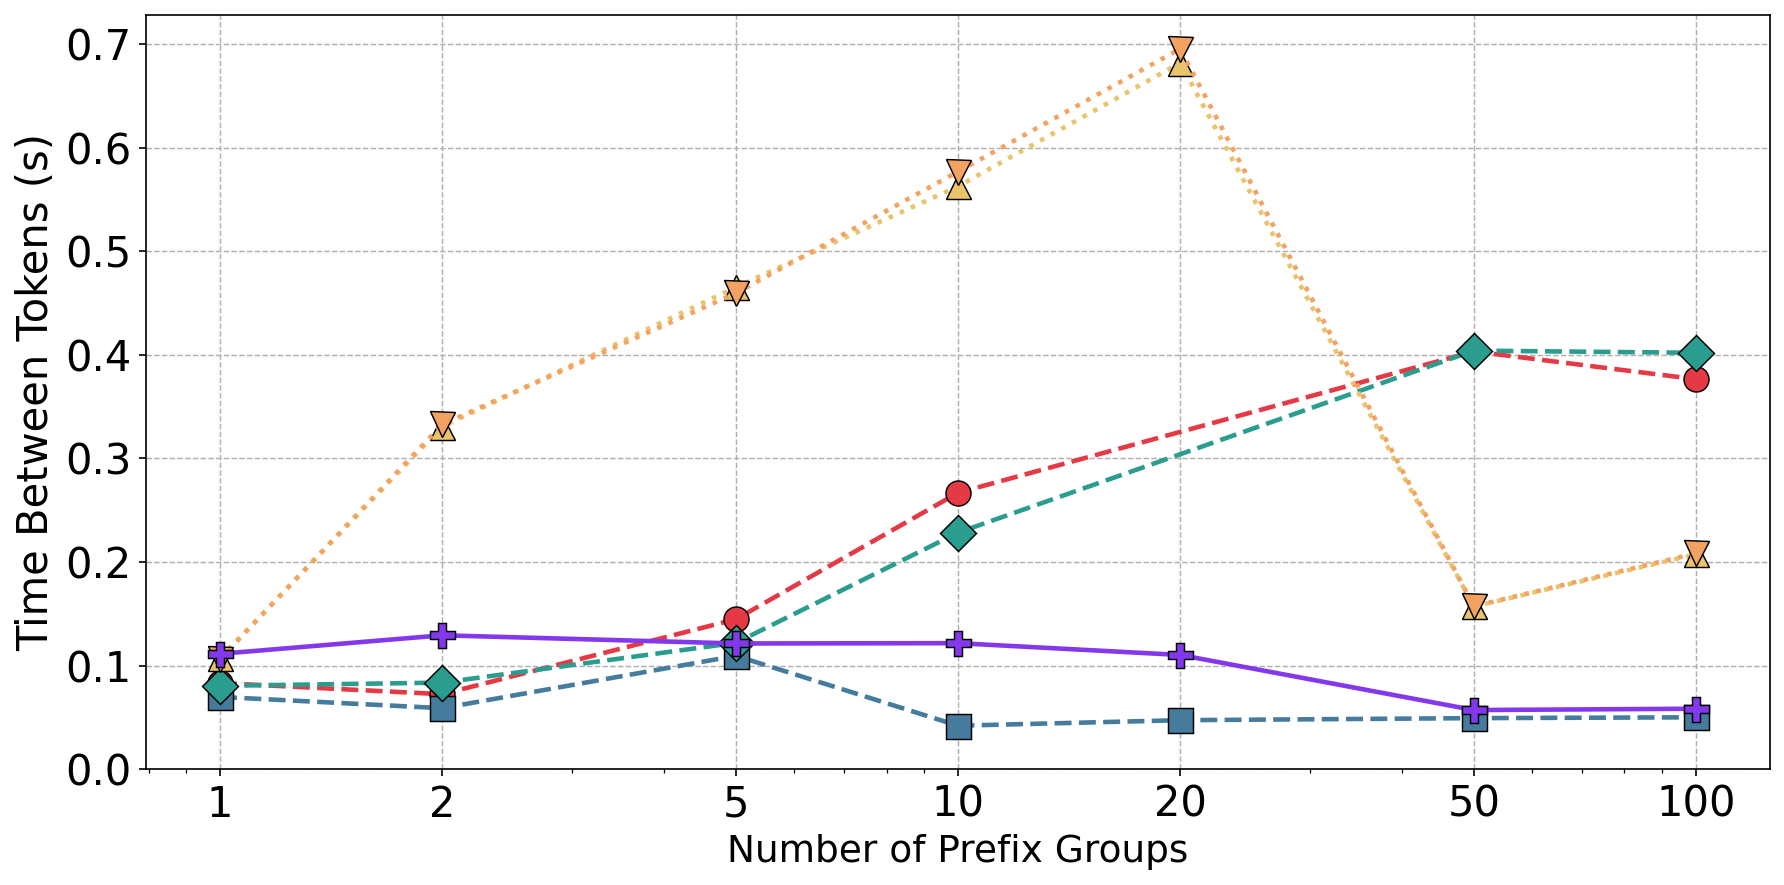
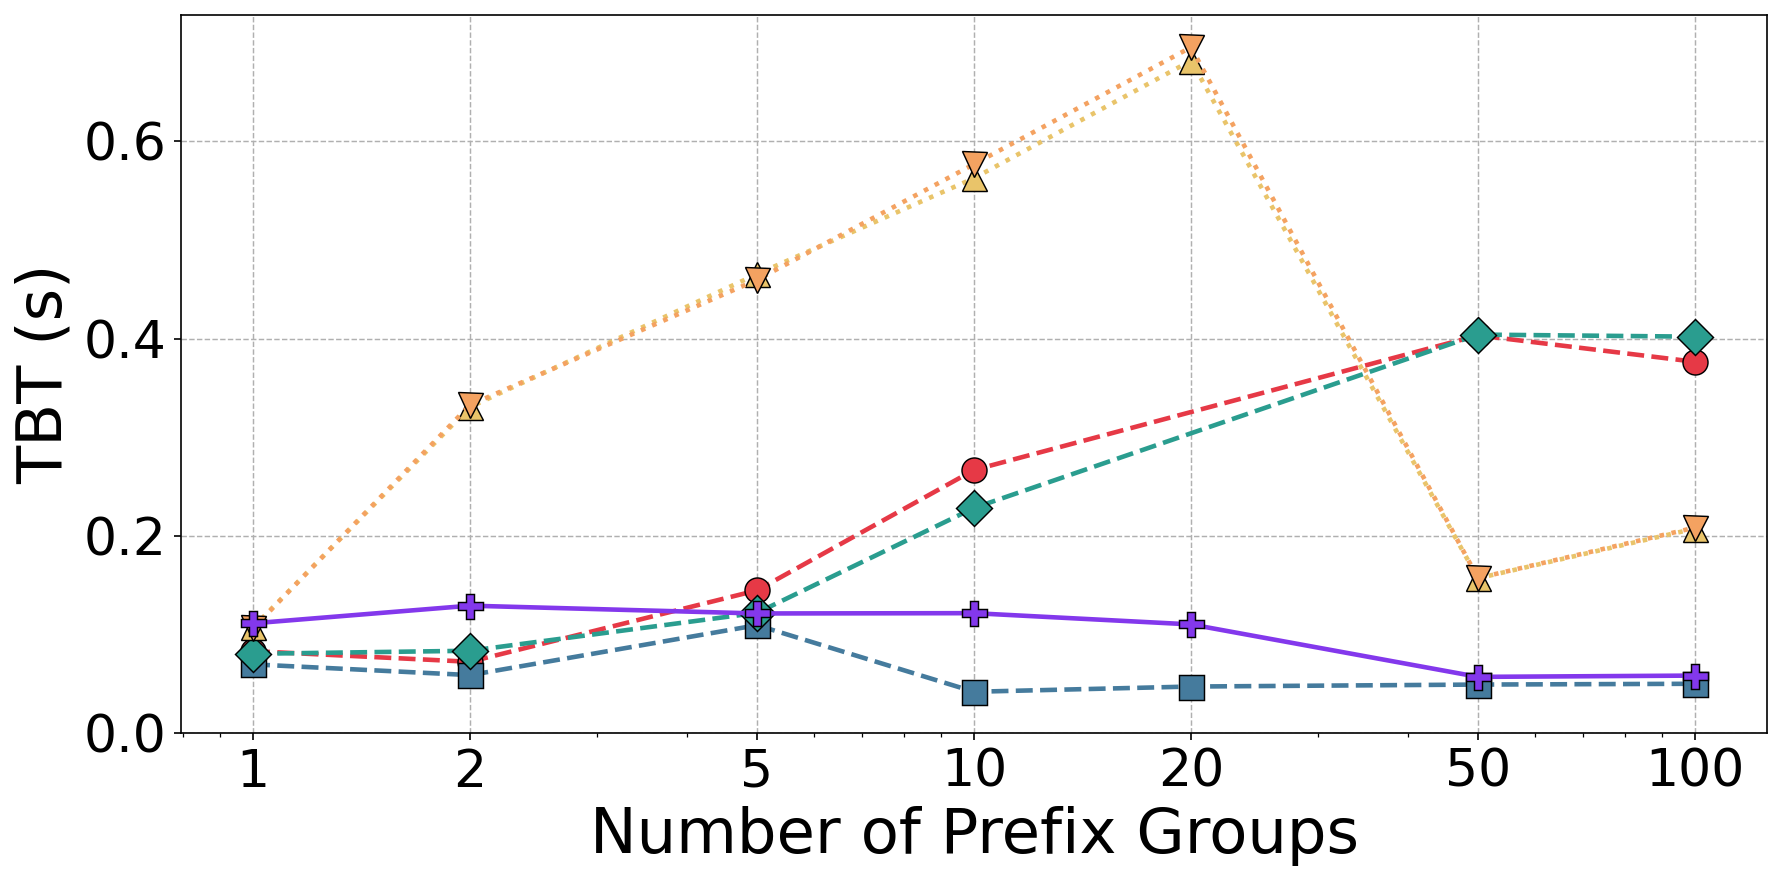
fam

diff --git a/code/vllm/families_logs/plot.py b/code/vllm/families_logs/plot.py
@@ -193,13 +193,13 @@ def make_plot(metric_key, ylabel, title, outpath):
     ax.set_xticks(all_fams)
     ax.get_xaxis().set_major_formatter(ticker.ScalarFormatter())
 
-    ax.set_xlabel("Number of Prefix Groups", fontsize=18)
-    ax.set_ylabel(ylabel, fontsize=20)
+    ax.set_xlabel("Number of Prefix Groups", fontsize=30)
+    ax.set_ylabel(ylabel, fontsize=30)
 
-    ax.tick_params(axis="both", labelsize=20)
+    ax.tick_params(axis="both", labelsize=25)
 
     if metric_key == "throughput":
-        ax.legend(fontsize=15, framealpha=0.3, ncol=2)
+        ax.legend(fontsize=18, framealpha=0.3, ncol=2)
 
     ax.grid(True, linewidth=0.7, linestyle="--")
     ax.set_ylim(bottom=0)
@@ -230,14 +230,14 @@ make_plot(
 
 make_plot(
     "avg_batch",
-    "Avg Running Batch Size",
-    "Average Running Batch Size vs Prefix Groups",
+    "Avg Batch Size",
+    "Average Batch Size vs Prefix Groups",
     os.path.join(OUT, "avg_batch_vs_fam.png")
 )
 
 make_plot(
     "avg_diff",
-    "Time Between Tokens (s)",
+    "TBT (s)",
     "Average Consecutive Scheduler Timestamp Diff vs Prefix Groups",
     os.path.join(OUT, "avg_timediff_vs_fam.png")
 )
